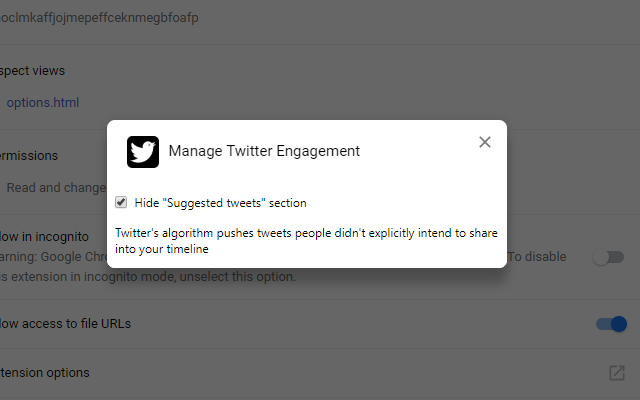
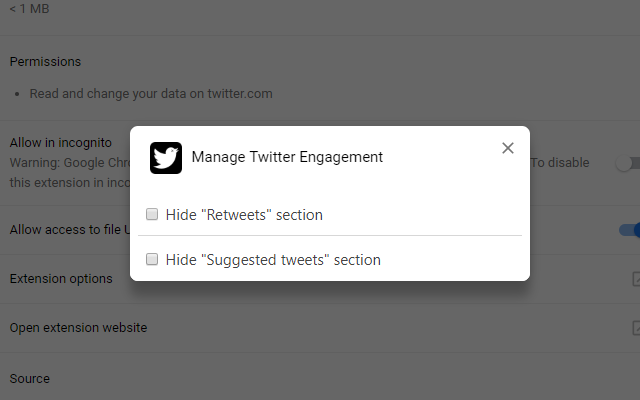
v2.2: added an option to hide the "Retweets" section
Hiding both sections removes this extension's UI from the homepage for the
authentic Just Tweets From People I Follow Experience

diff --git a/manage-twitter-engagement.user.js b/manage-twitter-engagement.user.js
@@ -3,7 +3,7 @@
 // @description Manage "engagement" on Twitter by moving retweets and algorithmic tweets to their own lists
 // @namespace   https://github.com/insin/manage-twitter-engagement/
 // @match       https://twitter.com/*
-// @version     6
+// @version     7
 // ==/UserScript==
 
 // Identify retweets by by their retweet id in element data
@@ -54,6 +54,11 @@ function toggleDisplayedTweets(tweets) {
 }
 
 function injectUI() {
+  // Don't do anything if we don't need a UI
+  if (config.hideRetweets && config.hideSuggestedTweets) {
+    return
+  }
+
   // It seems like Twitter caches some homepage content on navigation and restores it later?
   // Without this, navigating from Home → Notifications → Home results in a non-functional dupe.
   if (document.querySelector('#mte_tabs')) {
@@ -85,10 +90,12 @@ function injectUI() {
   </div>`
 
   for (let $tab of $tabs.querySelectorAll('li')) {
-    if ($tab.dataset.type === 'suggested' && config.hideSuggestedTweets) {
+    if ($tab.dataset.type === 'retweets' && config.hideRetweets ||
+        $tab.dataset.type === 'suggested' && config.hideSuggestedTweets) {
       $tab.style.display = 'none'
       continue
     }
+
     $tab.querySelector('a').addEventListener('click', (e) => {
       e.preventDefault()
       activateTab($tab)
@@ -146,7 +153,7 @@ new MutationObserver(() => {
       streamObserver = {disconnect(){}}
       chrome.storage.local.get((storedConfig) => {
         // TODO Provide a way to configure the user script version
-        // For now, manually replace with config = {hideSuggestedTweets: true}
+        // For now, manually replace with config = {hideRetweets: true, hideSuggestedTweets: true}
         config = storedConfig
         startManagingEngagement()
       })

diff --git a/options.html b/options.html
@@ -3,6 +3,15 @@
   <head>
     <meta charset="utf-8">
     <style>
+      form {
+        font-size: 1.25em;
+        color: #444;
+      }
+      hr {
+        border-style: solid;
+        border-width: 1px 0 0 0;
+        border-color: #d7d7d7;
+      }
       label.checkbox input {
         margin-left:  0;
         vertical-align: middle;
@@ -10,17 +19,26 @@
       label.checkbox span {
         vertical-align: middle;
       }
+      section {
+        padding: .25em .5em;
+      }
     </style>
   </head>
   <body>
     <form>
-      <label class="checkbox">
-        <input type="checkbox" name="hideSuggestedTweets">
-        <span>Hide "Suggested tweets" section</span>
-      </label>
-      <p>
-        Twitter's algorithm pushes tweets people didn't explicitly intend to share into your timeline
-      </p>
+      <section>
+        <label class="checkbox">
+          <input type="checkbox" name="hideRetweets">
+          <span>Hide "Retweets" section</span>
+        </label>
+      </section>
+      <hr>
+      <section>
+        <label class="checkbox">
+          <input type="checkbox" name="hideSuggestedTweets">
+          <span>Hide "Suggested tweets" section</span>
+        </label>
+      </section>
     </form>
     <script src="options.js"></script>
   </body>

diff --git a/README.md b/README.md
@@ -34,9 +34,15 @@ Firefox extension page options:
 
 ## Options
 
+### Hide "Retweets" section
+
+Enable this option to completely hide retweets.
+
 ### Hide "Suggested tweets" section
 
 Enable this option to completely hide algorithmic tweets.
+
+> Hiding both sections will remove this extension's section headings from the Twitter homepage
 
 ## Attribution
 
